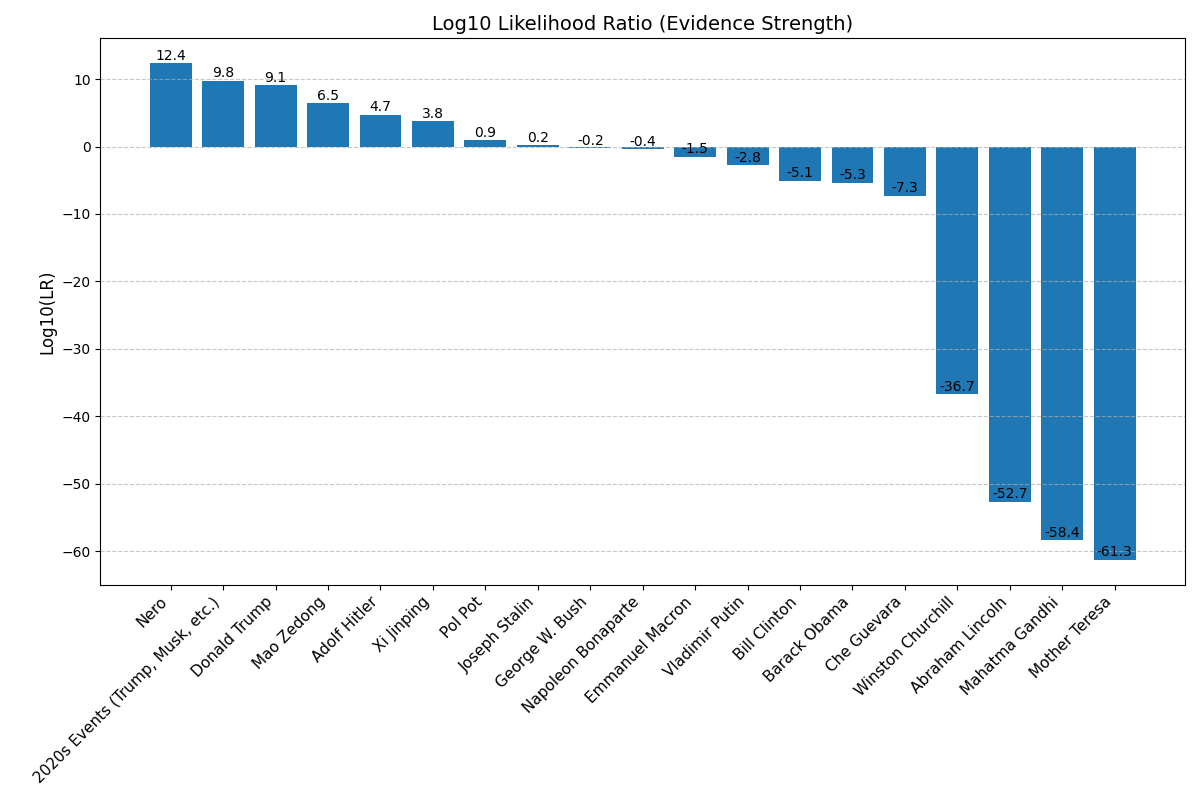
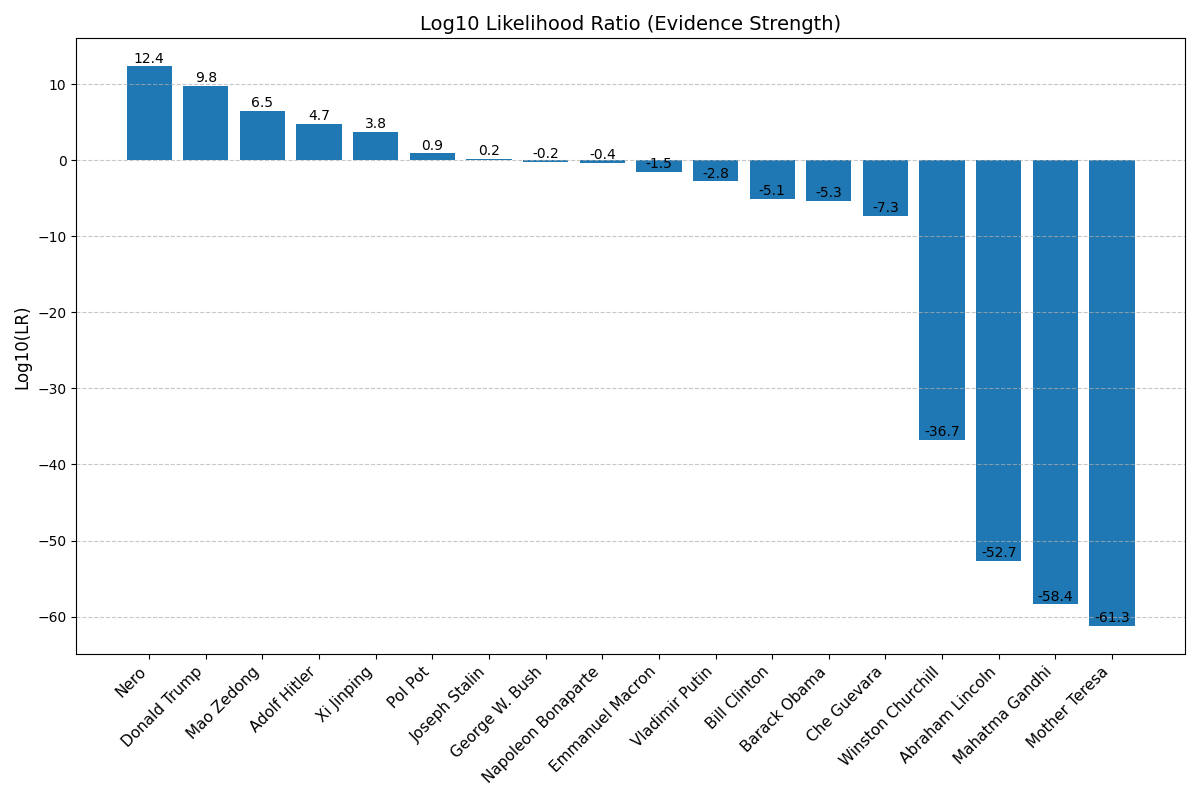
more updates

diff --git a/antichrist_analysis.py b/antichrist_analysis.py
@@ -22,7 +22,7 @@ import matplotlib.pyplot as plt
 import numpy as np
 import yaml
 
-TOP_PROPHECY_COUNT = 50
+TOP_PROPHECY_COUNT = 100
 
 
 class AntichristAnalysis:
@@ -219,7 +219,12 @@ class AntichristAnalysis:
             prob_str = f"{prob:.2%}"
 
         print(f"\n=== {subject_name} ({subject['title']}, {subject['time_period']}) ===")
-        print(f"Prior Probability: {self.prior:.6%}")
+        if self.prior >= 0.0001:
+            prior_str = f"{self.prior:.4%}"
+        else:
+            prior_str = f"{(self.prior * 100):.9f}".rstrip('0').rstrip('.') + "%"
+        odds_str = f"1 in {1/self.prior:,.0f}" if self.prior > 0 else "N/A"
+        print(f"Prior Probability: {prior_str} ({odds_str})")
         print(f"Prophecy Coverage: {result['prophecy_coverage']:.0%} of all prophecies")
         print(f"Log10 Likelihood Ratio: {result['log_likelihood_ratio']:.1f}")
         print(
@@ -505,8 +510,8 @@ class AntichristAnalysis:
 
 def main():
     parser = argparse.ArgumentParser(description='Antichrist Bayesian Analysis Tool')
-    parser.add_argument('--prior', type=float, default=1e-6,
-                        help='Prior probability (default: 1e-6, one in a million)')
+    parser.add_argument('--prior', type=float, default=1e-9,
+                        help='Prior probability (default: 1e-9, one in a billion)')
     parser.add_argument('--subjects', nargs='+',
                         help='List of subjects to analyze (default: all)')
     parser.add_argument('--plot', action='store_true',
